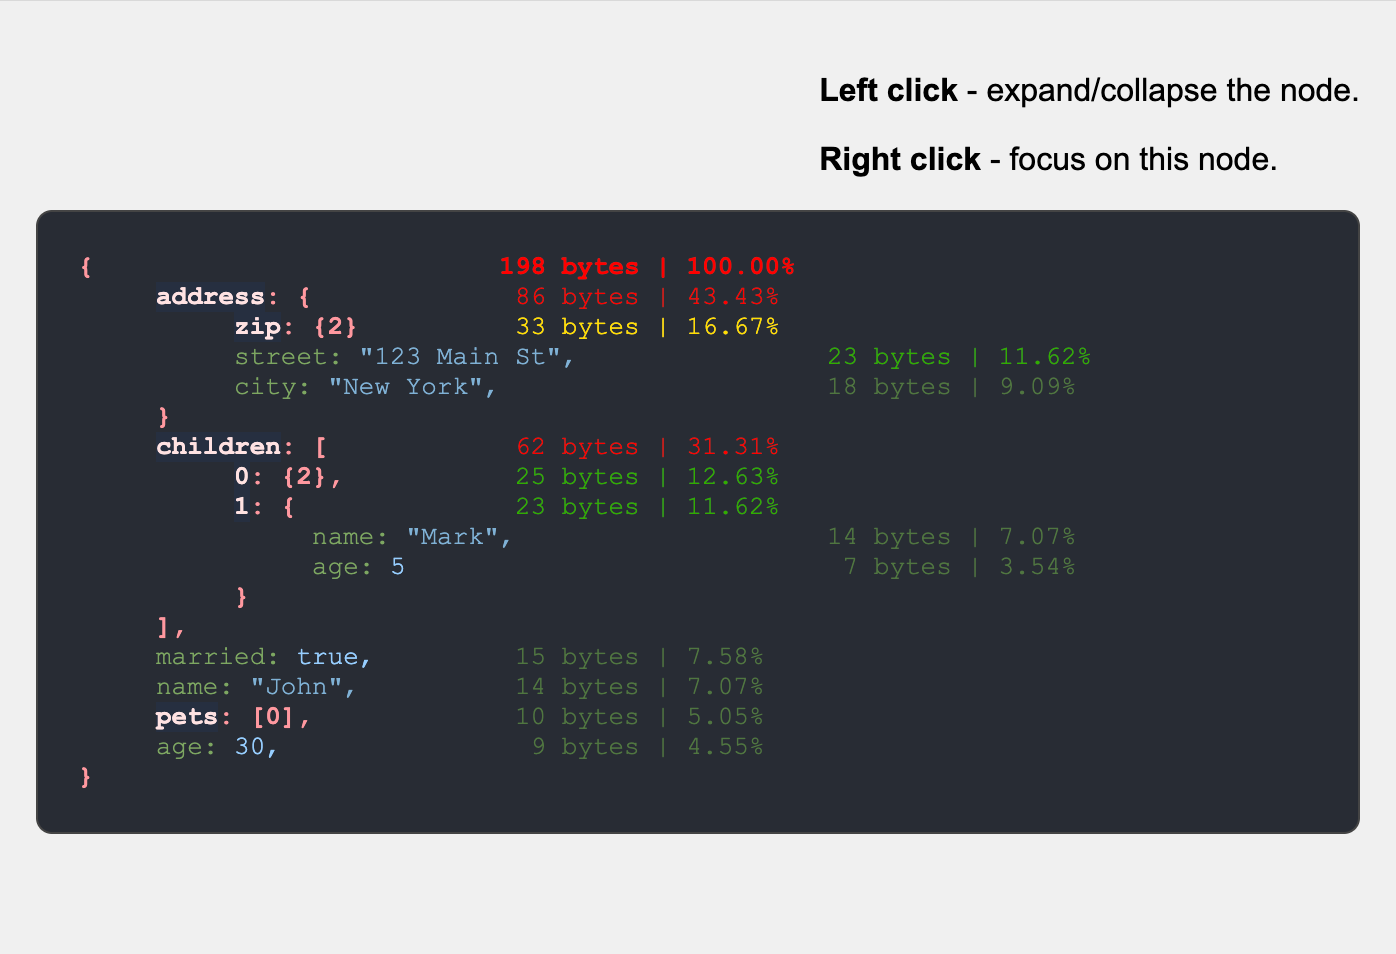
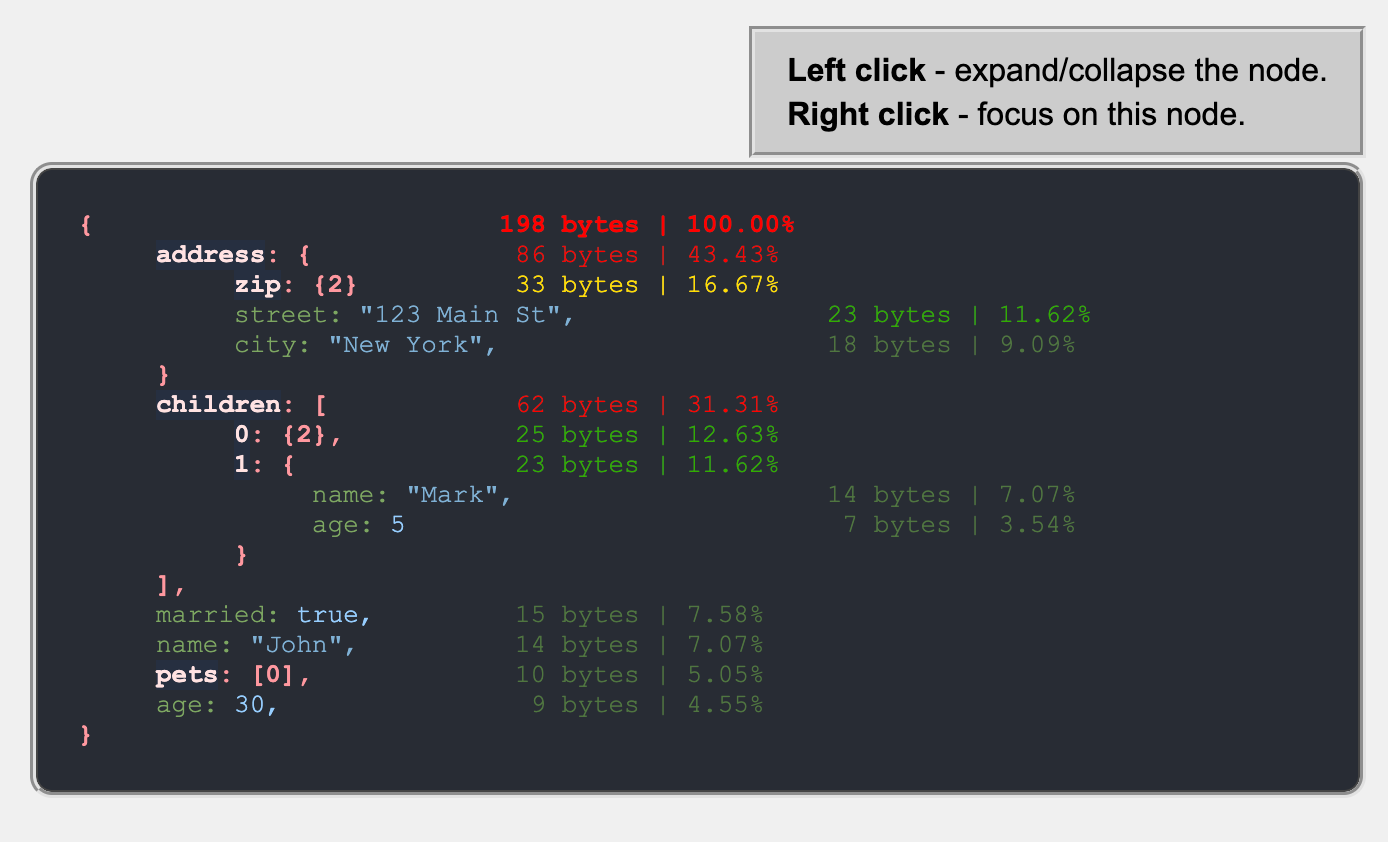
Hints

diff --git a/jsonSize.html b/jsonSize.html
@@ -25,6 +25,9 @@
             color: #f8f8f2;
             max-width: 98%;
             margin: 0 auto;
+            outline-width: medium;
+            outline-color: #e2e2e2;
+            outline-style: groove;
         }
         .json-key-group {
             cursor: pointer;
@@ -78,6 +81,16 @@
         .json-collapsable {
         }
         .json-anticollapsable {
+        }
+        .hints {
+            line-height: 6px;
+            padding-left: 16px;
+            padding-right: 16px;
+            margin-bottom: 8px;
+            background: #cccccc;
+            outline-width: medium;
+            outline-color: #e2e2e2;
+            outline-style: groove;
         }
         .container {
             display: flex;
@@ -137,7 +150,7 @@
         <div>
             <button id="displayJSON-button" onclick="displayJSON()">Display JSON</button>
         </div>
-        <div id="hints">
+        <div id="hints" class="hints">
             <p><b>Left click</b> - expand/collapse the node.</p>
             <p><b>Right click</b> - focus on this node.</p>
         </div>
